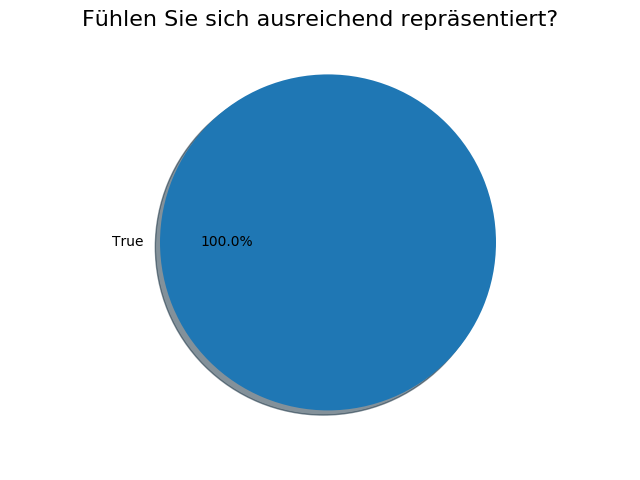
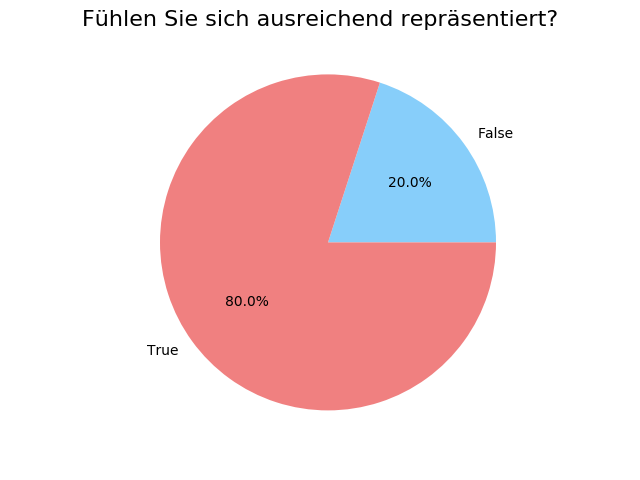
new create_bar

Changed region(s): [[0.1875, 0.1562, 0.8125, 0.875]]

diff --git a/templates/index.html b/templates/index.html
@@ -8,7 +8,7 @@
     <script src="https://unpkg.com/jquery"></script>
     <script src="https://surveyjs.azureedge.net/1.1.22/survey.jquery.js"></script>
     <link href="https://surveyjs.azureedge.net/1.1.22/modern.css" type="text/css" rel="stylesheet"/>
-    <link rel="stylesheet" href="./modern.css">
+    <link rel="stylesheet" href="./styles.css">
     <script src="https://unpkg.com/emotion-ratings@2.0.1/dist/emotion-ratings.js"></script>
     <script src="https://surveyjs.azureedge.net/1.1.22/surveyjs-widgets.js"></script>
 {#    <script src="https://surveyjs.azureedge.net/1.1.24/survey.jquery.min.js"></script>#}

diff --git a/application.py b/application.py
@@ -85,13 +85,15 @@ def get_questions():
 
 
 def create_pie(q):
+    plt.clf()
     dirname = os.path.dirname(__file__)
     output_path = os.path.join(dirname, "static/assets/charts")
     title = parse_survey()[q]
     q_data = parse_data(q)
     keys, counts = np.unique(q_data, return_counts=True)
-    plt.pie(counts, labels=keys, autopct='%1.1f%%',
-            shadow=True, startangle=0)
+    colors = ['lightskyblue', 'lightcoral']
+    plt.pie(counts, labels=keys, autopct='%1.1f%%', colors=colors,
+            shadow=False, startangle=0)
     plt.axis('equal')
     fig = plt.gcf()
     fig.suptitle(title, fontsize=16)
@@ -102,13 +104,18 @@ def create_pie(q):
 
 
 def create_bar(q):
+    plt.clf()
     dirname = os.path.dirname(__file__)
     output_path = os.path.join(dirname, "static/assets/charts")
     title = parse_survey()[q]
     print("title:", title)
     q_data = parse_data(q)
     keys, counts = np.unique(q_data, return_counts=True)
-    fig = create_figure(keys, counts)
+    y_pos = np.arange(len(keys))
+    plt.bar(y_pos, counts, color="lightskyblue")
+    plt.xticks(y_pos, keys)
+    fig = plt.gcf()
+    #fig = create_figure(keys, counts)
     fig.suptitle(title, fontsize=16)
     fig.savefig("{}/{}.png".format(output_path, q))
     plt.show()
@@ -151,6 +158,7 @@ def parse_survey():
     return title_dict
 
 
+# delete
 def create_figure(x, y):
     fig = Figure()
     axis = fig.add_subplot(1, 1, 1)
